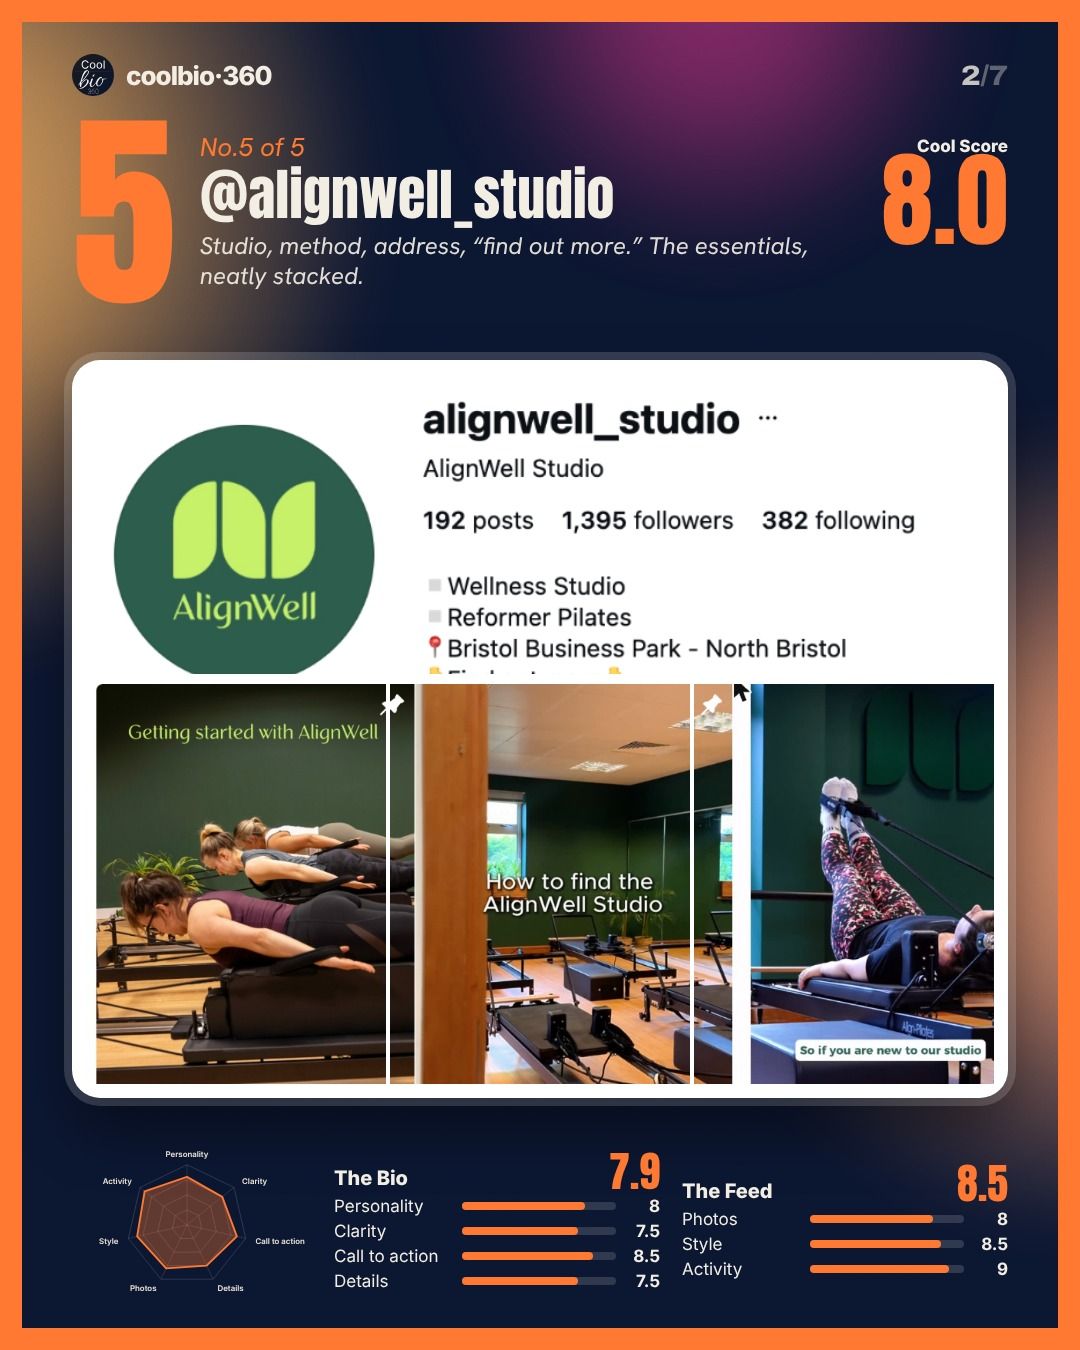
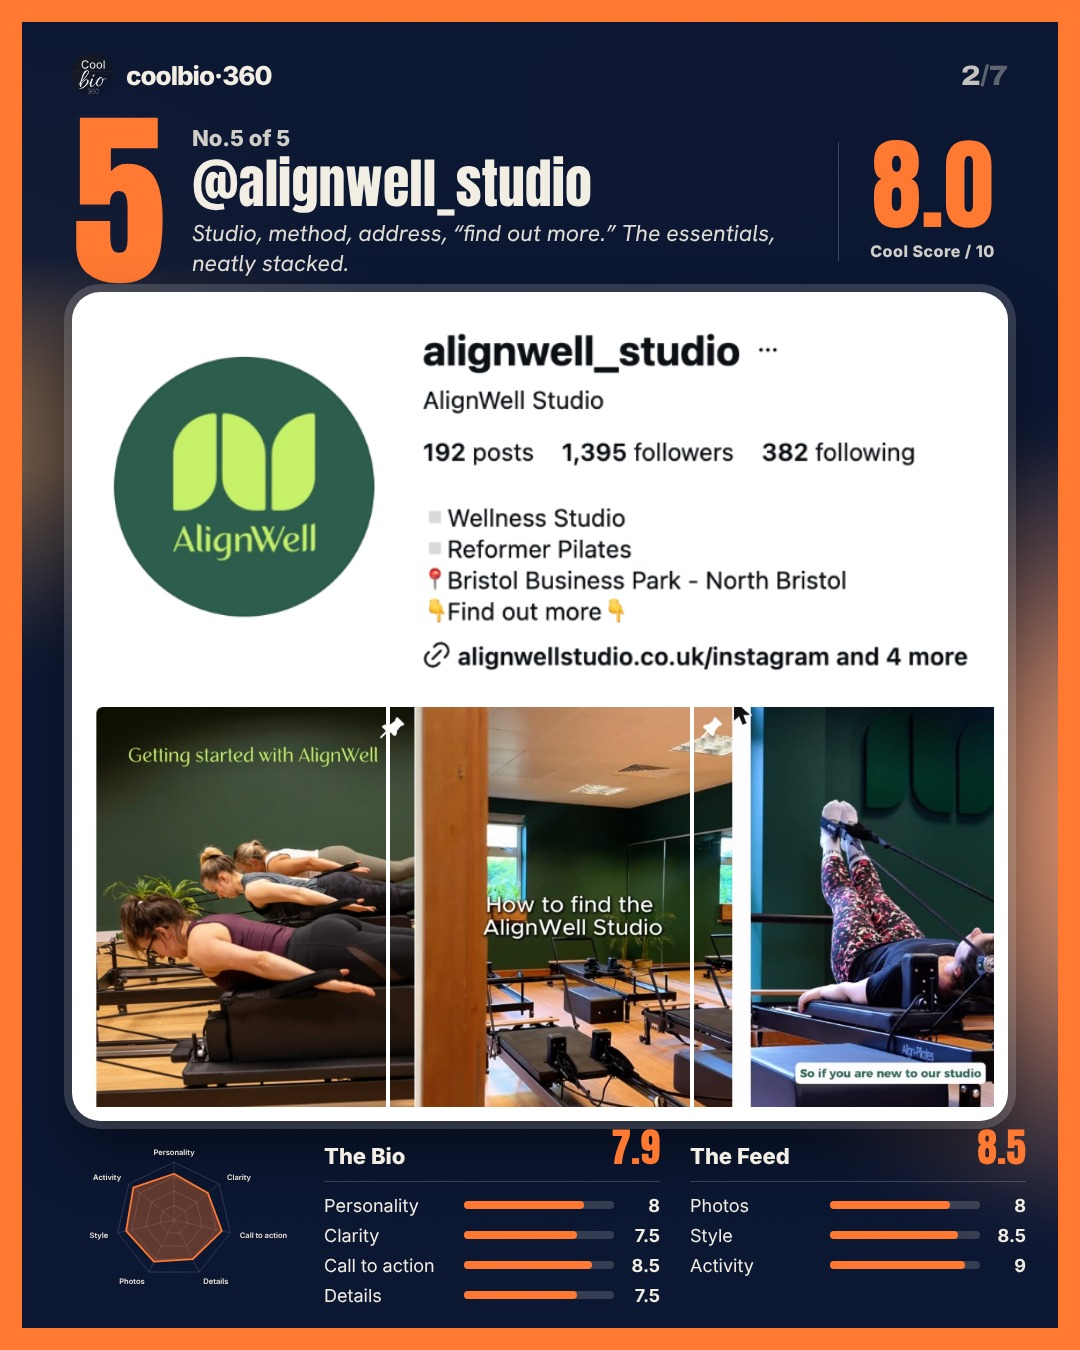
Classifiche A4: niente sovrapposizioni, punteggio impaginato, stats centrate, steal senza ombre
Claude-Session: https://claude.ai/code/session_01JL8RT6ZiLuziuRoxLPPpLq

diff --git a/tools/v2/gen_top8.py b/tools/v2/gen_top8.py
@@ -23,32 +23,49 @@ def cover(d):
 <div style="margin-top:22px;display:flex;justify-content:center;align-items:baseline;gap:14px">{N(r,int(sz*.5),d['strong'] if r==1 else CREAM)}<span style="font-family:Anton;font-size:{int(sz*.2)}px;color:{CREAM};opacity:.85">{P[r]['score']}</span></div></div>'''
     b=f'''{grain()}{header(1,7,CREAM)}
 <div class="z" style="position:absolute;left:{M}px;right:{M}px;top:150px;color:{CREAM}">
-<div class="sub" style="font-size:30px;color:{A}">The bio issue, vol. {d['vol']}</div>
+<div class="sub" style="font-size:30px;color:{CREAM}">The bio issue, vol. {d['vol']}</div>
 <div style="font-family:Anton;font-size:156px;line-height:.9;text-transform:uppercase;margin-top:10px">The 5 best<br><span style="color:{d['strong']}">{E(d['word'])} bios</span></div>
 <div class="sub" style="font-size:32px;margin-top:18px;opacity:.9">{E(d['sub'])}</div></div>
 {pod(2,M+10,790,250)}{pod(3,W-M-260,830,250)}{pod(1,(W-320)//2,720,320)}'''
     return page(b,d['strong'])
 def statcol(name,vs,ls,S):
-    rows=''.join(f'''<div style="display:grid;grid-template-columns:118px 1fr 34px;gap:10px;align-items:center;margin:5px 0;font-size:17px;color:{CREAM}"><span>{l}</span><div style="height:8px;border-radius:4px;background:rgba(243,238,228,.16)"><div style="width:{x*10}%;height:8px;border-radius:4px;background:{S}"></div></div><span style="font-weight:700;text-align:right">{x:g}</span></div>''' for l,x in zip(ls,vs))
-    return f'''<div style="flex:1"><div style="display:flex;justify-content:space-between;align-items:flex-end;margin-bottom:6px"><span style="font-size:20px;font-weight:800;color:{CREAM}">{name}</span>{N(f"{sum(vs)/len(vs):.1f}",42,S)}</div>{rows}</div>'''
+    rows=''.join(f'''<div style="display:grid;grid-template-columns:128px 150px 34px;gap:12px;align-items:center;height:30px;font-size:18px;color:{CREAM}"><span>{l}</span><div style="height:8px;border-radius:4px;background:rgba(243,238,228,.18)"><div style="width:{x*10}%;height:8px;border-radius:4px;background:{S}"></div></div><span style="font-weight:700;text-align:right">{x:g}</span></div>''' for l,x in zip(ls,vs))
+    return f'''<div><div style="display:flex;justify-content:space-between;align-items:baseline;height:52px;border-bottom:1px solid rgba(243,238,228,.2);margin-bottom:8px"><span style="font-size:22px;font-weight:800;color:{CREAM}">{name}</span>{N(f"{sum(vs)/len(vs):.1f}",40,S)}</div>{rows}</div>'''
 def profile(d,p,i):
     A,S=d['accent'],d['strong']; vals=p['bio']+p['feed']; win=p['rank']==1
     tiles=''.join(f'<div style="flex:1;aspect-ratio:3/4;background:url({T.b64(T.CAP+p["h"]+f"_{k}.jpg")}) center/cover"></div>' for k in (1,2,3))
-    b=f'''{grain()}{header(i,7,CREAM)}
-<div class="z" style="position:absolute;left:{M}px;right:{M}px;top:122px;display:flex;align-items:flex-start;gap:24px;color:{CREAM}">
-{N(p['rank'],210,S)}
-<div style="flex:1;padding-top:8px"><div class="sub" style="font-size:26px;color:{S}">{'The winner 🏆' if win else 'No.'+str(p['rank'])+' of 5'}</div>
-<div style="font-family:Anton;font-size:56px;line-height:1.02;margin-top:2px;word-break:break-all">@{E(p['h'])}</div>
-<div class="sub" style="font-size:24px;line-height:1.25;margin-top:8px;opacity:.92">{E(p['v'])}</div></div>
-<div style="text-align:right;padding-top:14px"><div style="font-size:17px;font-weight:800">Cool Score</div>{N(p['score'],104,S)}</div></div>
-<div class="z" style="position:absolute;left:{M}px;right:{M}px;top:360px;background:#fff;border-radius:28px;padding:14px 14px 14px;box-shadow:0 0 0 8px rgba(255,255,255,.16),0 30px 60px rgba(0,0,0,.45)">
-<img src="{T.b64(T.CAP+p['h']+'_head.png')}" style="width:100%;max-height:300px;object-fit:cover;object-position:top;display:block">
+    b=f'''<div style="position:absolute;left:0;right:0;top:0;height:470px;background:linear-gradient(180deg,{NAVY} 0%,{NAVY}f2 55%,{NAVY}00 100%);z-index:1"></div>
+{grain()}{header(i,7,CREAM)}
+<div class="z" style="position:absolute;left:{M}px;right:{M}px;top:120px;bottom:40px;display:flex;flex-direction:column;justify-content:space-between">
+<div style="display:flex;align-items:center;gap:26px;color:{CREAM}">
+{N(p['rank'],190,S)}
+<div style="flex:1;min-width:0"><div style="font-size:22px;font-weight:800;color:{CREAM};opacity:.85">{'THE WINNER 🏆' if win else 'No.'+str(p['rank'])+' of 5'}</div>
+<div style="font-family:Anton;font-size:54px;line-height:1.04;margin-top:4px;word-break:break-all">@{E(p['h'])}</div>
+<div class="sub" style="font-size:23px;line-height:1.28;margin-top:8px;opacity:.92">{E(p['v'])}</div></div>
+<div style="flex:none;width:170px;text-align:center;border-left:1px solid rgba(243,238,228,.22);padding-left:18px">{N(p['score'],100,S)}<div style="font-size:16px;font-weight:800;letter-spacing:.5px;margin-top:10px;opacity:.85">Cool Score / 10</div></div></div>
+<div style="background:#fff;border-radius:28px;padding:14px;box-shadow:0 0 0 8px rgba(255,255,255,.16),0 30px 60px rgba(0,0,0,.45)">
+<img src="{T.b64(T.CAP+p['h']+'_head.png')}" style="width:100%;display:block">
 <div style="display:flex;gap:4px;margin-top:10px">{tiles}</div></div>
-<div class="z" style="position:absolute;left:{M-10}px;right:{M}px;bottom:44px;display:flex;align-items:center;gap:22px">{TV.radar(vals,S,'rgba(243,238,228,.28)','#E9E3D7',250)}{statcol('The Bio',p['bio'],TV.LAB[:4],S)}{statcol('The Feed',p['feed'],TV.LAB[4:],S)}</div>'''
+<div style="display:flex;align-items:center;justify-content:center;gap:30px">{TV.radar(vals,S,'rgba(243,238,228,.3)','#E9E3D7',240)}<div style="display:flex;gap:30px;align-items:flex-start">{statcol('The Bio',p['bio'],TV.LAB[:4],S)}{statcol('The Feed',p['feed'],TV.LAB[4:],S)}</div></div></div>'''
     return page(b,d['strong'])
 def steal(d):
-    A=d['accent']; h=T.steal(d,7,7); h=h.replace('</head>',EXTRA+'</head>',1)
-    i=h.rfind('</div></body>'); return h[:i]+f'<div style="position:absolute;inset:0;border:22px solid {d["strong"]};z-index:9;pointer-events:none"></div>'+h[i:]
+    S=d['strong']; st=d['steal']
+    rows=''.join(f'''<div style="display:flex;align-items:center;gap:22px;padding:22px 0;border-bottom:2px solid #ECE6D6">{N(k+1,76,S,'width:44px;text-align:center')}<div style="flex:1"><div style="font-size:18px;font-weight:700;color:#9a948a">{l[1].capitalize()}</div><div style="font-size:30px;font-weight:600;color:#1c1c1e;margin-top:2px">{l[0]}</div></div></div>''' for k,l in enumerate(st['lines']))
+    ex='<br>'.join(st['ex'])
+    b=f'''{grain()}{header(7,7,CREAM)}
+<div class="z" style="position:absolute;left:{M}px;right:{M}px;top:130px;bottom:40px;display:flex;flex-direction:column;justify-content:space-between">
+<div style="background:#FFFDF6;border-radius:40px;padding:34px 44px 40px;box-shadow:0 30px 70px rgba(0,0,0,.3);font-family:Inter">
+<div style="display:flex;justify-content:space-between;font-size:28px;color:#E0A800;font-weight:500"><span>‹ Notes</span><span style="font-weight:700">Done</span></div>
+<div style="font-family:Anton;font-size:64px;color:#1c1c1e;margin-top:12px;line-height:1">STEAL THIS BIO</div>
+<div class="sub" style="font-size:26px;color:#6b6458;margin-top:8px">Built from what our top 5 have in common</div>
+<div style="margin-top:6px">{rows}</div>
+<div style="margin-top:20px;background:#fff;border:2px solid #ECE6D6;border-radius:24px;padding:18px 24px">
+<div style="font-weight:800;font-size:24px;color:#111">{st['ex_h']}</div><div style="font-size:24px;line-height:1.42;color:#222;margin-top:4px">{ex}</div></div></div>
+<div style="background:#fff;border-radius:30px;padding:22px 26px;display:flex;align-items:center;gap:22px;box-shadow:0 20px 50px rgba(0,0,0,.3)">
+<img src="{V.LOGO}" style="width:90px;height:90px;border-radius:50%;background:{NAVY}">
+<div style="flex:1"><div style="font-weight:800;font-size:30px;color:#111">coolbio360</div><div style="font-size:23px;color:#555;margin-top:4px;line-height:1.3">The best bios on Instagram, ranked<br>Follow for tomorrow's list</div></div>
+<div style="background:#0095F6;color:#fff;font-weight:700;font-size:28px;padding:16px 38px;border-radius:14px">Follow</div></div></div>'''
+    return page(b,S)
 async def main(path):
     d=json.load(open(path)); os.makedirs(OUT,exist_ok=True); P={p['rank']:p for p in d['people']}
     A=d['accent']; d['A2']=T.mix(A,'#5A1E10',.5)
